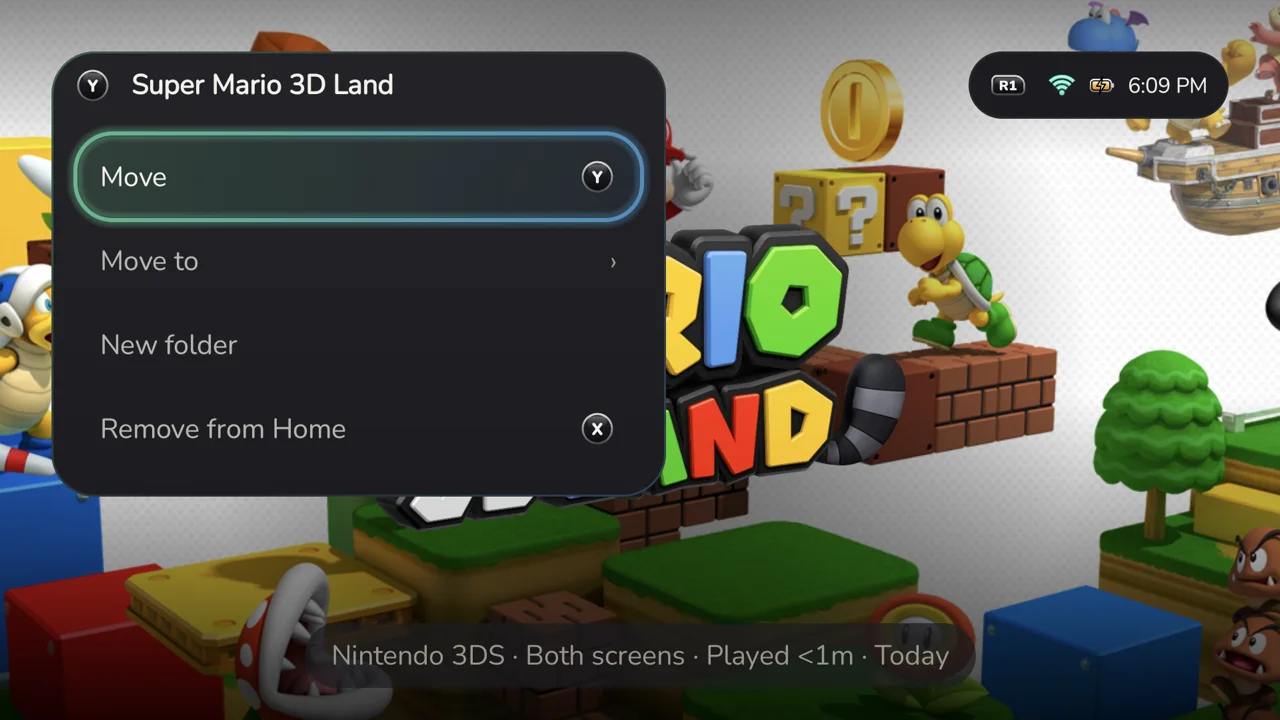
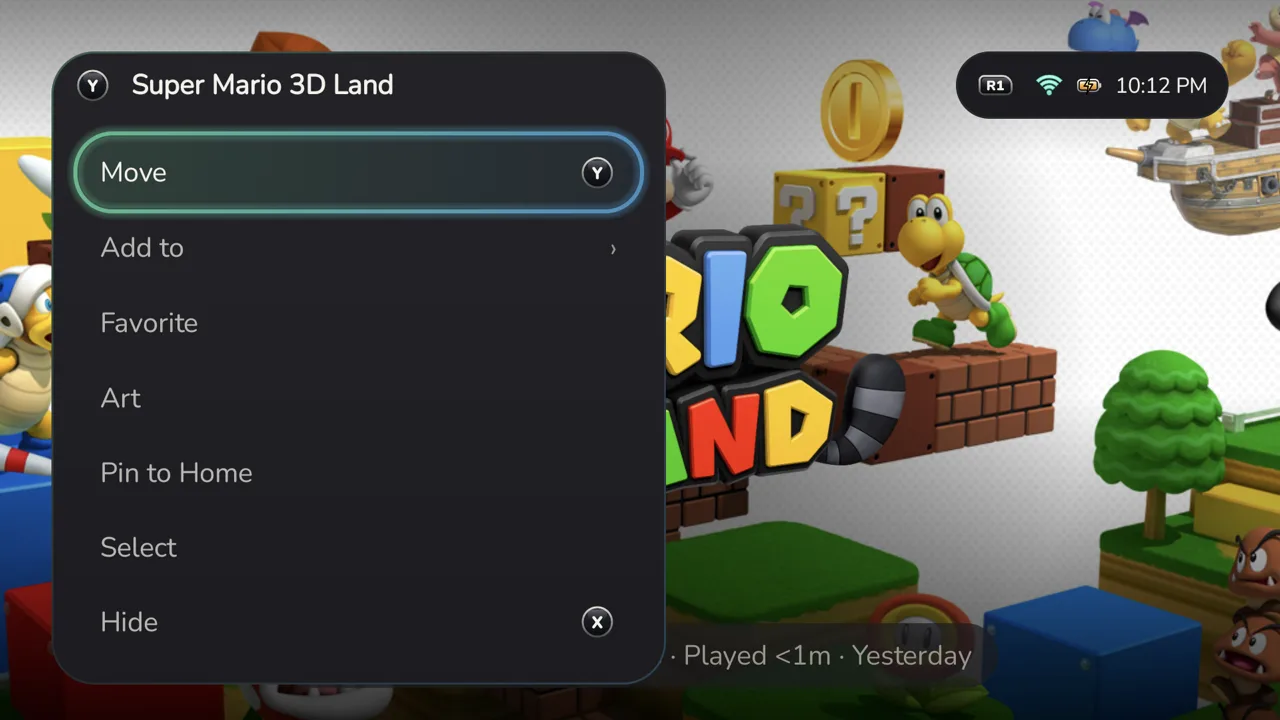
Describe collections, carrying and selecting in the docs (#235)
* Describe carrying, selecting and the new menus in the docs

- README: L2/R2 jump letters in All when sorted A–Z, on the Android shelves, and in Hidden, and move one screen at a time on Home, in folders, and in collections.
- README: the game menu alt text lists Move, Add to, Favorite, Art, Pin to Home, Select, and Hide.
- README: carrying a game out of a folder or collection, New collection, and Select.
- persistence: All no longer saves a tab, system filter, or destination folder.
- persistence: filing into a collection does not empty a folder; hiding, removal, a new game, pinning, and collections follow the current lifecycle.

* Show the new Y menu and describe hovering over a collection

The README's Y-menu screenshot showed the old Move to / New folder /
Remove from Home menu. It now shows a game's menu on the Thor as it is
today, with every row fitting the top screen. A game carried over a
collection now waits for A or Y instead of dropping in, so the README
says so.

---------

diff --git a/README.md b/README.md
@@ -59,13 +59,13 @@ Press **A** to play on the top screen or **X** on the bottom. Games that need bo
 | :---: | :---: |
 | ![The L1 drawer: this week's play activity as a small bar chart, round buttons for Home, All, Games, and Apps, then Edit home and Settings.](docs/images/menu-l1.webp) | ![The R1 drawer: date, battery, and Wi-Fi, round buttons for Wi-Fi, Bluetooth, Battery, and Android settings, and a brightness slider.](docs/images/menu-r1.webp) |
 
-**L1** opens Home, All, Games, Apps, Edit home, and Settings. **Start** opens Settings from the grid and closes it again. **Select** opens Find. **L2 / R2** jump letters in All and the Android shelves, with a brief letter on the top screen; on Home and inside folders they move four columns at a time. Stick clicks do nothing. The Android Home button closes a folder, All, or a shelf and returns to its Home tile. **R1** gives you Wi-Fi, Bluetooth, battery, brightness for both screens, and notifications you can open or clear.
+**L1** opens Home, All, Games, Apps, Edit home, and Settings. **Start** opens Settings from the grid and closes it again. **Select** opens Find. **L2 / R2** jump letters in All (when sorted A–Z), the Android shelves, and Hidden, with a brief letter on the top screen; on Home, inside folders and inside collections they move one screen (four columns) at a time. Stick clicks do nothing. The Android Home button closes a folder, All, or a shelf and returns to its Home tile. **R1** gives you Wi-Fi, Bluetooth, battery, brightness for both screens, and notifications you can open or clear.
 
 ### Tidy up with one button
 
-<img src="docs/images/menu-y.webp" alt="The Y menu over Super Mario 3D Land's art, with Move, Move to, New folder, and Remove from Home." width="640">
+<img src="docs/images/menu-y.webp" alt="The Y menu over Super Mario 3D Land's art, with Move, Add to, Favorite, Art, Pin to Home, Select, and Hide." width="640">
 
-Press **Y** on any tile for what it can do. Press Y twice to pick up a tile, walk it with the D-pad, and press Y or A to put it down; B puts it back. Carried over a collection, a game drops in. Push up from the top row of a folder or collection to carry a game out to Home. **Tidy**, on an empty slot, closes the gaps.
+Press **Y** on any tile for what it can do. Press Y twice to pick up a tile, walk it with the D-pad, and press Y or A to put it down; B puts it back. Carried over a collection, a game waits there: **A** or **Y** adds it, and the D-pad walks on past. While you hold a game in a folder or collection, push **Up** from the top row to raise it to the Home target, then **A** or **Y** carries it onto Home still in your hand. From a folder it stays in the folder and becomes a pin. From a collection it leaves the collection. **New collection** is **Y** on an empty Home slot, on the All tile, or the last row of **Add to ›**. **Select** in the Y menu checks several tiles with **A**, then **Y** to **Add to**, **New collection**, **Pin to Home**, **Favorite**, or **Hide** them at once, with one Undo. **Tidy**, on an empty slot, closes the gaps.
 
 - **Folders** are Foldcade's own, one for each system and source. Each always holds every game of its kind on Home, so a game you file elsewhere never goes missing from its folder.
 - **Collections** are yours. Name them on an on-screen keyboard made for the controller, with quick names like Playing and Backlog one press away, and put a game in as many as you like with **Add to**. Adding a game to a collection leaves it in its folder. A collection is a glossy folder card, so it never looks like one of Foldcade's folders: **Y › Icon** opens an editor on the top screen with ten colors and a glyph for every kind of collection (star, trophy, sword, ghost, hourglass, and more, plus every system). The tile and the preview wear each choice as you move; **A** keeps it, **B** puts the old look back, and **L1**/**R1** change the color from anywhere.
@@ -73,7 +73,7 @@ Press **Y** on any tile for what it can do. Press Y twice to pick up a tile, wal
 - **Favorite** a game and **Favorites** appears on Home. **Recently played** shows up after you play something and lists your last 12 games, newest first.
 - **Hide** takes a game off Home everywhere and keeps its games, downloads, and Android shortcuts intact.
 
-Use **Y › Select** on a game to check several tiles in the current view. The D-pad moves, **A** checks or clears a game, **Y** opens Actions, and **B** finishes without changing anything. File the checked games into a collection, make a new one, pin or favorite them, or hide the whole batch. A mixed collection check means some are already members; choosing it adds the rest. One Undo restores a batch hide.
+During **Select**, the D-pad moves, **A** checks or clears a game, **Y** opens Actions, and **B** finishes without changing anything. A mixed collection check means some are already members; choosing it adds the rest. One Undo restores a batch hide.
 
 ### Hiding and bringing things back
 

diff --git a/docs/persistence.md b/docs/persistence.md
@@ -7,7 +7,7 @@ Settings and confirmed Home edits are restored from the app-private `foldcade` s
 - Personalization: theme name, whether the background was explicitly selected, background motion, motion speed, and controller confirmation/dismissal choices per device.
 - Sound: music enabled, volume, and track id. Theme and track selections fall back when unavailable without overwriting the saved choice during startup. Nonfinite volume values fall back to the default.
 - Library: source folder URIs, RomM origin, listed/recent order, automatic placement of new games, and the artwork switch.
-- Home: tile positions and empty slots, collections (folders the user made in older releases become collections), confirmed names and icons, hidden tiles and their former root/group slots, removed system folders with their root slots and games still filed in them, when Recently played may first appear, and All's selected tab, sort, system filter, and destination folder.
+- Home: tile positions and empty slots, collections (folders the user made in older releases become collections), confirmed names and icons, hidden tiles and their former root/group slots, removed system folders with their root slots and games still filed in them, and when Recently played may first appear.
 - Apps: games/apps shelf overrides, hidden apps, favorites, and overrides that show player apps.
 - Players: save folder URIs, skipped folder offers, save hashes, and pending save returns.
 - Onboarding: Home, library-folder, usage-access, and controller prompt answers.
@@ -22,7 +22,7 @@ A lifted tile is serialized at its last confirmed position. Confirming a move sa
 
 Saved Android, GameNative, Moonlight, DroidDeck, and library placements are retained while their respective catalogs load. An empty startup catalog does not establish that a game was removed, so a folder whose games are still loading keeps its place and its name. A reported catalog can then remove games that are actually gone.
 
-No games, no folder. A folder Foldcade makes, for a platform or for Android, GameNative, Moonlight, or DroidDeck, appears with its first game and is removed once no game is left in it, including when its games are hidden or moved into another folder. Folders hold games, not the apps that run them: an installed app a player plugin covers, such as Azahar, Dolphin, GameNative, Moonlight, or DroidDeck, goes in its own Emulators folder, under the same rule. Releases before the Emulators folder filed those apps under Android Games or Android Apps; each moves to Emulators once, and after that stays wherever the user puts it. A game added back from All, or a newly pinned one, brings its folder back. Folders the user made stay, empty or not.
+No games, no folder. A folder Foldcade makes, for a platform or for Android, GameNative, Moonlight, or DroidDeck, appears with its first game. Filing a game into a collection never empties its folder. Hiding every game in an automatic folder removes that folder from the grid. A folder the user removed stays off Home until Show in Hidden. A new game brings back only a folder that disappeared because it emptied. Pinning a game files it into a removed folder without bringing that folder back. Folders hold games, not the apps that run them: an installed app a player plugin covers, such as Azahar, Dolphin, GameNative, Moonlight, or DroidDeck, goes in its own Emulators folder, under the same rule. Releases before the Emulators folder filed those apps under Android Games or Android Apps; each moves to Emulators once, and after that stays wherever the user puts it. User-made groups are collections, which stay, even empty, until the user removes them, which deletes them.
 
 ## Files, secrets, and transfer
 
